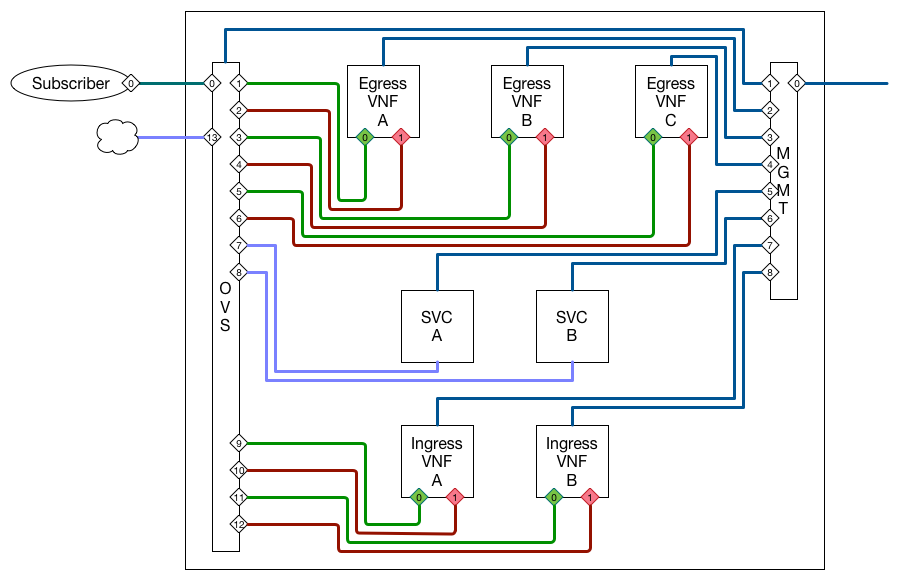
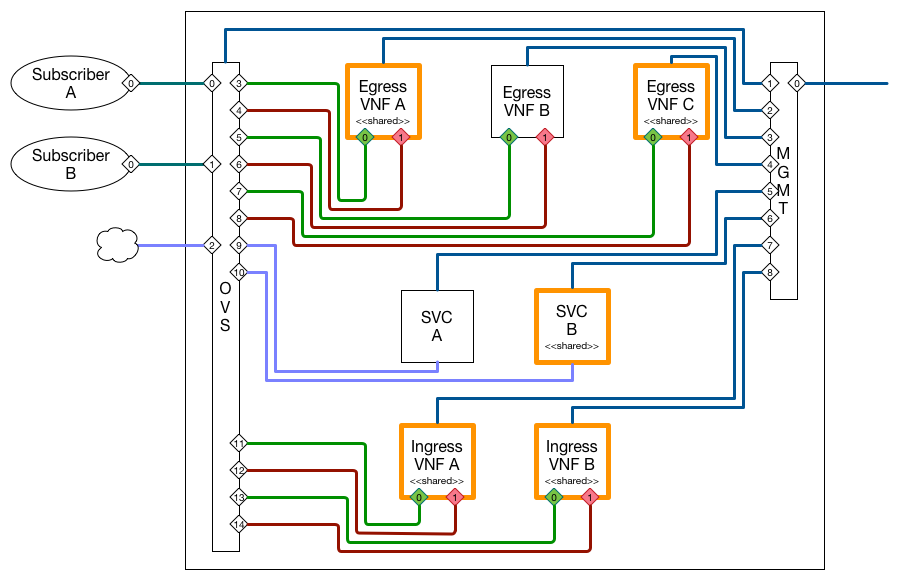
update readme and diagram to reflect code

diff --git a/README.md b/README.md
@@ -8,6 +8,12 @@ vNF chaining, as represented by the `vNF` entries, but also tenant networking
 that allows the client to access some vNFs via layer 3 routing, as represented
 by the `SVC` entries.
 
+The example demonstrates the a user case with two distinct subscribers as well
+as some vNFs that are shared and some vNFs that are unique per subscriber.
+
+_**TODO:** While the user case depicts a connection to the Internet this aspect of
+the use case is not yet supported._
+
 ![](./vnf-chain.png)
 
 The formula used for this demonstration is that each VNF is assigned two (2)
@@ -18,16 +24,16 @@ on the VNFs are attached to an instance of an OpenVSwitch (OVS).
 The service vNFs (SVC) have a single interface, `eth0`, and operate as normal
 layer 3 capabilities utilizing that single interface for TX and RX.
 
-OpenFlow (OF) rules are applied to the OVS such that packets received on port
-0 are forward to port 1, received on port 2 are forward to port 3, received on
-port 4 are forward to port 5, received on port 6 are forward to port 7.
-
-The flow rules also allow layer 3 traffic to reach the service vNFs (SVC).
+OpenFlow (OF) rules are applied to the OVS such that packets flow through the
+vNFs using `port_in` and `output` rules along with more detailed rules to
+support the L3 (SVC) vNFs. In general, taffic is flowed to the `in0` port on
+a vNF and then from the `out0` port of that vNF to the `in0` port on the next
+vNF in the chain.
 
 After the packet has reached its destination the flow rules then ensure that
 the packet traverses the ingress vNF chain back to the subscriber.
 
-These OF rules ensure the patch of any packet once it enters the chain.
+These OF rules ensure the path of any packet once it enters the chain.
 
 ## Installation and Deployment
 This project leverages **Vagrant** and so for easiest usage you should have
@@ -38,7 +44,7 @@ This project leverages **Vagrant** and so for easiest usage you should have
 There is only a single Vagrant box defined for this project. To create this
 VM the following command can be issued:
 
-```
+```bash
 vagrant up
 ```
 
@@ -48,7 +54,7 @@ download some software packages and the Vagrant box image.
 Once the Vagrant box (VM) is created you can access this machine and access
 the demonstration files on the VM using the following command:
 
-```
+```bash
 vagrant ssh
 cd /vagrant
 ```
@@ -73,7 +79,7 @@ to the next VNF in the chain.
 This behavior is defined in the `process.py` file.
 
 To build the VNF Docker container, the following commands can be used:
-```
+```bash
 cd /vagrant
 make build
 ```
@@ -85,7 +91,7 @@ The creation of the VNF chain consists of three phases
 3. push flows to the OVS to control the packet flow across the chain
 
 These steps can be invoked using the `make` target `deploy`:
-```
+```bash
 cd /vagrant
 make deploy
 ```
@@ -95,66 +101,108 @@ The VNFs provide some logging while processing packets. The essentially
 output a time stamp when the processed the packet and the ethernet src
 MAC after it has been modified. An example of this output is below:
 ```
-vnfa_1  | 2017-04-06 18:21:04.627568: 00:00:00:00:11:11
-vnfb_1  | 2017-04-06 18:21:04.643939: 00:00:11:11:11:11
-vnfc_1  | 2017-04-06 18:21:04.655679: 11:11:11:11:11:11
-vnfa_1  | 2017-04-06 18:21:04.703563: 00:00:00:00:11:11
-vnfb_1  | 2017-04-06 18:21:04.715747: 00:00:11:11:11:11
-vnfc_1  | 2017-04-06 18:21:04.727597: 11:11:11:11:11:11 [DROP]
-vnfa_1  | 2017-04-06 18:21:13.491106: 00:00:00:00:11:11
-vnfb_1  | 2017-04-06 18:21:13.507499: 00:00:11:11:11:11
-vnfc_1  | 2017-04-06 18:21:13.523412: 11:11:11:11:11:11
-vnfa_1  | 2017-04-06 18:21:13.564962: 00:00:00:00:11:11
-vnfb_1  | 2017-04-06 18:21:13.575161: 00:00:11:11:11:11
-vnfc_1  | 2017-04-06 18:21:13.587124: 11:11:11:11:11:11 [DROP]
+egress_vnf_a                 | 2017-04-13 20:23:36.868775: ca:fe:00:00:00:01
+egress_vnf_b_subscriber_a    | 2017-04-13 20:23:36.881134: ca:fe:00:00:00:01
+egress_vnf_c                 | 2017-04-13 20:23:36.896799: ca:fe:00:00:00:01
+udp_service_subscriber_a     | RX  : 10.1.0.2:44697 -> Hello
+udp_service_subscriber_a     | +TX : 10.1.0.2:5067 -> "UDP for subscriber A"
+ingress_vnf_a                | 2017-04-13 20:23:36.908561: fe:c0:ed:09:28:a5
+ingress_vnf_b                | 2017-04-13 20:23:36.924427: fe:c0:ed:09:28:a5
+egress_vnf_a                 | 2017-04-13 20:23:37.000032: ca:fe:00:00:00:01
+egress_vnf_b_subscriber_a    | 2017-04-13 20:23:37.007819: ca:fe:00:00:00:01
+egress_vnf_c                 | 2017-04-13 20:23:37.024141: ca:fe:00:00:00:01
+ingress_vnf_a                | 2017-04-13 20:23:37.043432: ee:3e:c8:cc:6a:74
+ingress_vnf_b                | 2017-04-13 20:23:37.056544: ee:3e:c8:cc:6a:74
+egress_vnf_a                 | 2017-04-13 20:23:37.067981: ca:fe:00:00:00:01
+egress_vnf_b_subscriber_a    | 2017-04-13 20:23:37.080257: ca:fe:00:00:00:01
+egress_vnf_a                 | 2017-04-13 20:23:37.092454: ca:fe:00:00:00:01
+egress_vnf_c                 | 2017-04-13 20:23:37.094329: ca:fe:00:00:00:01
+tcp_service                  | CX  : 10.1.0.2:35324
+egress_vnf_b_subscriber_a    | 2017-04-13 20:23:37.108548: ca:fe:00:00:00:01
+egress_vnf_c                 | 2017-04-13 20:23:37.121992: ca:fe:00:00:00:01
+tcp_service                  | +RX : 10.1.0.2:35324 -> Hello
+tcp_service                  | +TX : 10.1.0.2:35324 -> Good morning
+tcp_service                  | +DX : 10.1.0.2:35324
+ingress_vnf_a                | 2017-04-13 20:23:37.136061: ee:3e:c8:cc:6a:74
+ingress_vnf_b                | 2017-04-13 20:23:37.144429: ee:3e:c8:cc:6a:74
+ingress_vnf_a                | 2017-04-13 20:23:37.155531: ee:3e:c8:cc:6a:74
+ingress_vnf_b                | 2017-04-13 20:23:37.168617: ee:3e:c8:cc:6a:74
+ingress_vnf_a                | 2017-04-13 20:23:37.179522: ee:3e:c8:cc:6a:74
+egress_vnf_a                 | 2017-04-13 20:23:37.181460: ca:fe:00:00:00:01
+ingress_vnf_b                | 2017-04-13 20:23:37.192006: ee:3e:c8:cc:6a:74
+egress_vnf_b_subscriber_a    | 2017-04-13 20:23:37.192737: ca:fe:00:00:00:01
+egress_vnf_a                 | 2017-04-13 20:23:37.204245: ca:fe:00:00:00:01
+egress_vnf_c                 | 2017-04-13 20:23:37.205428: ca:fe:00:00:00:01
+egress_vnf_b_subscriber_a    | 2017-04-13 20:23:37.216031: ca:fe:00:00:00:01
+egress_vnf_a                 | 2017-04-13 20:23:37.227030: ca:fe:00:00:00:01
+egress_vnf_c                 | 2017-04-13 20:23:37.227822: ca:fe:00:00:00:01
+ingress_vnf_a                | 2017-04-13 20:23:37.240120: ee:3e:c8:cc:6a:74
+egress_vnf_b_subscriber_a    | 2017-04-13 20:23:37.241267: ca:fe:00:00:00:01
+egress_vnf_c                 | 2017-04-13 20:23:37.252206: ca:fe:00:00:00:01
+ingress_vnf_b                | 2017-04-13 20:23:37.253760: ee:3e:c8:cc:6a:74
+egress_vnf_a                 | 2017-04-13 20:23:41.886572: ca:fe:00:00:00:01
+egress_vnf_b_subscriber_a    | 2017-04-13 20:23:41.900095: ca:fe:00:00:00:01
+egress_vnf_c                 | 2017-04-13 20:23:41.912709: ca:fe:00:00:00:01
+ingress_vnf_a                | 2017-04-13 20:23:41.919018: fe:c0:ed:09:28:a5
+ingress_vnf_b                | 2017-04-13 20:23:41.936793: fe:c0:ed:09:28:a5
+egress_vnf_a                 | 2017-04-13 20:23:41.948082: ca:fe:00:00:00:01
+ingress_vnf_a                | 2017-04-13 20:23:41.951329: fe:c0:ed:09:28:a5
+egress_vnf_b_subscriber_a    | 2017-04-13 20:23:41.963417: ca:fe:00:00:00:01
+ingress_vnf_b                | 2017-04-13 20:23:41.964026: fe:c0:ed:09:28:a5
+egress_vnf_c                 | 2017-04-13 20:23:41.975391: ca:fe:00:00:00:01
 ```
 
 The logs of the VNFs can be viewed by using the `make` target `logs`
-```
+```bash
 cd /vagrant
 make logs
 ```
 
 #### Run Quick Test
-Provided with this demonstration is a quick test program that sends
-a packet into the chain and watches for the packet. This test is in
-the file `test.py`. The test sends two packets, the first is expected
-to make it all the way through the chain and the second is dropped by
-the last VNF and never delivered. The test can be invoked using the
-`make` target `test`.
-```
+Provided with this demonstration is a quick test program produces requests to
+the service vNF using both `UDP` and `TCP` communication. The `UDP` test
+represents a service such as DHCP as a vNF and the `TCP` test represents a
+service such as a web server. The test can be invoked using the `make` target
+`test`.
+
+```bash
 ubuntu@bp-cord:/vagrant$ make test
-docker exec -ti vagrant_client_1 ash -c 'UDP_SEND_IP=10.1.0.3 python ./send-udp.py'
+docker exec -ti subscriber_a ash -c 'UDP_SEND_IP=10.1.0.3 python ./send-udp.py'
+WHO_AM_I   : Subscriber-A
 RX         : 0.0.0.0:5067
 TX         : 10.1.0.3:5068
 MSG        : Hello
 RETRY_COUNT: 5
 -----
-TX  : 10.1.0.3:5068 -> Hello
-+RX : 10.1.0.3:49633 -> Good morning
-docker exec -ti vagrant_client_1 ash -c 'TCP_SEND_IP=10.1.0.4 python ./send-tcp.py'
+TX[Subscriber-A]  : 10.1.0.3:5068 -> Hello
++RX[Subscriber-A] : 10.1.0.3:37894 -> "UDP for subscriber A"
+docker exec -ti subscriber_a ash -c 'TCP_SEND_IP=10.1.0.4 python ./send-tcp.py'
+WHO_AM_I   : Subscriber-A
 TX         : 10.1.0.4:5080
 MSG        : Hello
 -----
-CX  : 10.1.0.4:5080
-+TX : 10.1.0.4:5080 -> Hello
-+RX : 10.1.0.4:5080 -> Good morning
-+DX : 10.1.0.4:5080
-```
-
-#### Logs During Test
-If you view the logs during a test run, in particular easy to see if you run
-just the UDP test, `make test-udp`, you can see that a packet traverses the
-vNF chain in the specified order as the UDP packet is sent from the client to
-the UDP service vNF and the service vNF responds with a UDP packet back to the
-client.
-
-```
-egress_vnf_a_1   | 2017-04-11 15:58:36.757483: ea:50:a5:23:3a:e2
-egress_vnf_b_1   | 2017-04-11 15:58:36.772296: ea:50:a5:23:3a:e2
-egress_vnf_c_1   | 2017-04-11 15:58:36.784983: ea:50:a5:23:3a:e2
-ingress_vnf_a_1  | 2017-04-11 15:58:36.795972: a6:fd:73:03:e4:3e
-ingress_vnf_b_1  | 2017-04-11 15:58:36.804086: a6:fd:73:03:e4:3e
+CX[Subscriber-A]  : 10.1.0.4:5080
++TX[Subscriber-A] : 10.1.0.4:5080 -> Hello
++RX[Subscriber-A] : 10.1.0.4:5080 -> Good morning
++DX[Subscriber-A] : 10.1.0.4:5080
+docker exec -ti subscriber_b ash -c 'UDP_SEND_IP=10.1.0.3 python ./send-udp.py'
+WHO_AM_I   : Subscriber-B
+RX         : 0.0.0.0:5067
+TX         : 10.1.0.3:5068
+MSG        : Hello
+RETRY_COUNT: 5
+-----
+TX[Subscriber-B]  : 10.1.0.3:5068 -> Hello
++RX[Subscriber-B] : 10.1.0.3:59976 -> "UDP for subscriber B"
+docker exec -ti subscriber_b ash -c 'TCP_SEND_IP=10.1.0.4 python ./send-tcp.py'
+WHO_AM_I   : Subscriber-B
+TX         : 10.1.0.4:5080
+MSG        : Hello
+-----
+CX[Subscriber-B]  : 10.1.0.4:5080
++TX[Subscriber-B] : 10.1.0.4:5080 -> Hello
++RX[Subscriber-B] : 10.1.0.4:5080 -> Good morning
++DX[Subscriber-B] : 10.1.0.4:5080
 ```
 
 #### Clean Up
